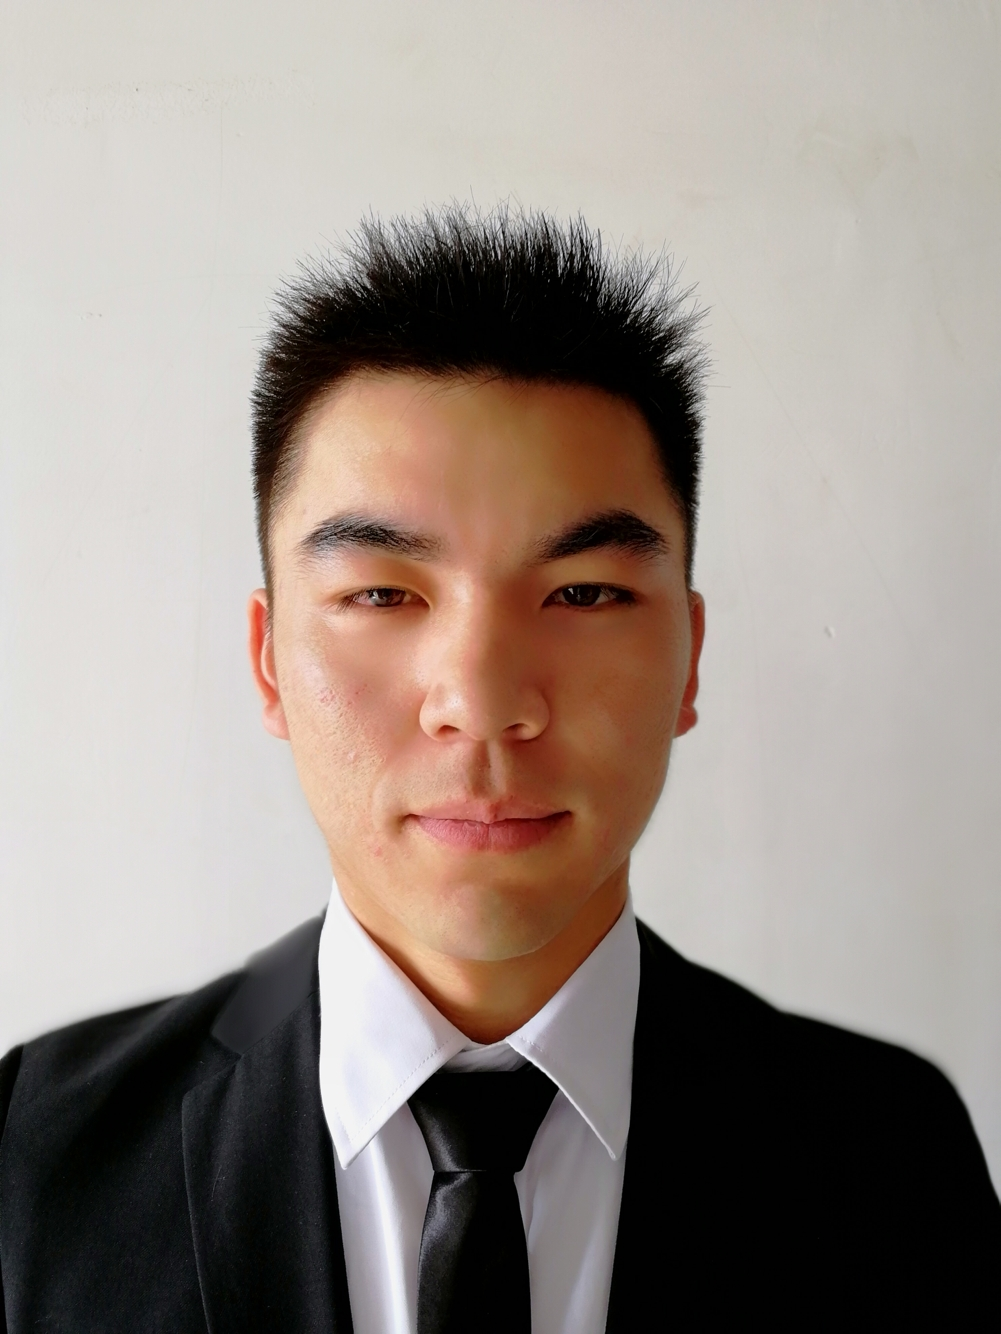
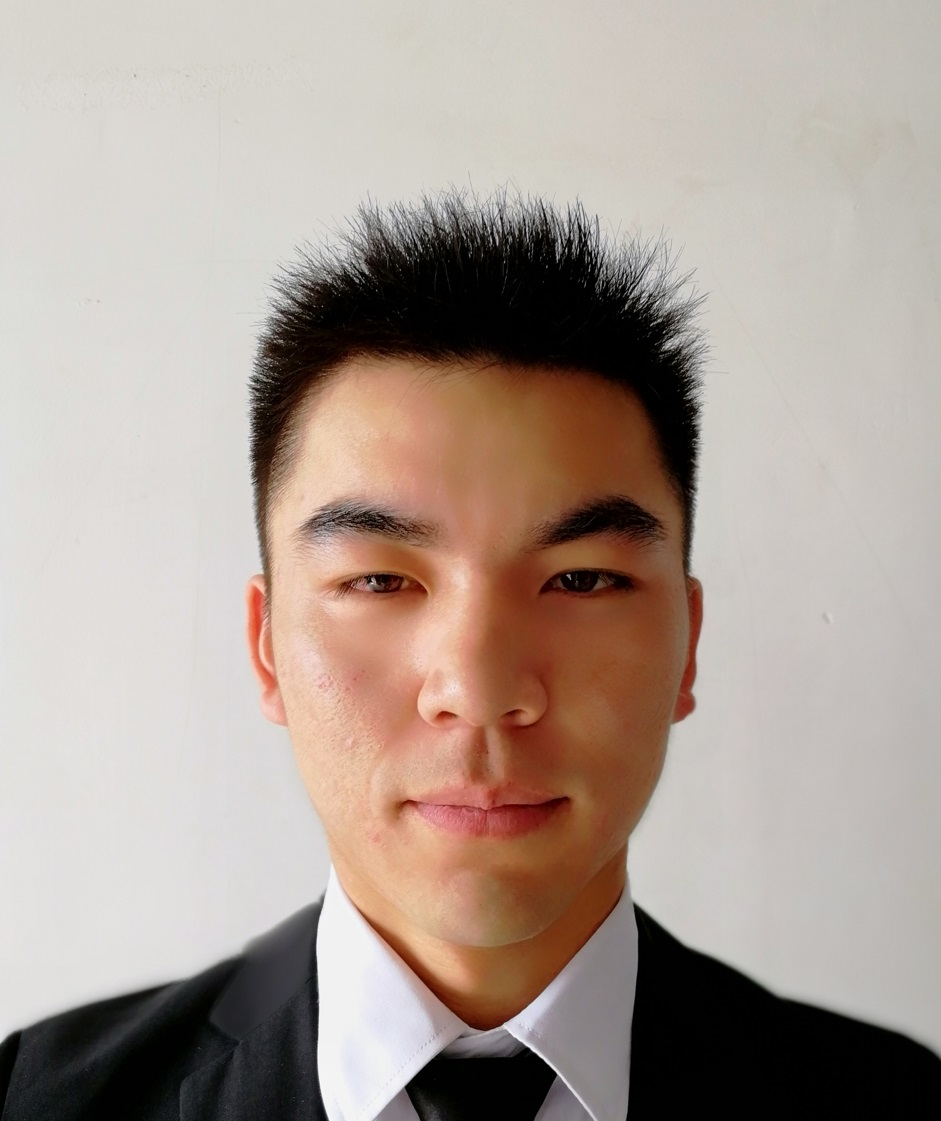
修复简历证件照打印不清问题

diff --git a/zhangqunwei5.html b/zhangqunwei5.html
@@ -18,9 +18,8 @@
 <body style="padding-right: 0px;">
     <div class="container" id="cv">
         <div class="side">
-            <br>
             <div class="me">
-                <div class="portrait" style="background-image: url(static/image/张群伟.png);"></div>
+                <img class="portrait" style="background-image: url(static/image/张群伟.png);"></img>
                 
                 <h2 id="username">张群伟</h2>
                 <h3 id="persona-tag">求职意向：嵌入式系统/驱动工程师</h3>
@@ -101,7 +100,6 @@
                 </div>
             </div>
         </div>
-        <br>
         <div class="main">
             <!--教育背景-->
             <div class="education info-unit right-list">

diff --git a/static/css/简历.css b/static/css/简历.css
@@ -199,10 +199,12 @@ progress::-moz-progress-value {
     background-image:url('https://avatars0.githubusercontent.com/u/21081491?v=3&s=460');
     background-size: 100%;
     background-position:center;
+    /*
     border-radius:50%;
     border:5px solid #607d8b;
-    width:160px;
-    height:160px;
+    */
+    width:35mm;
+    height:40mm;
 }
 
 
